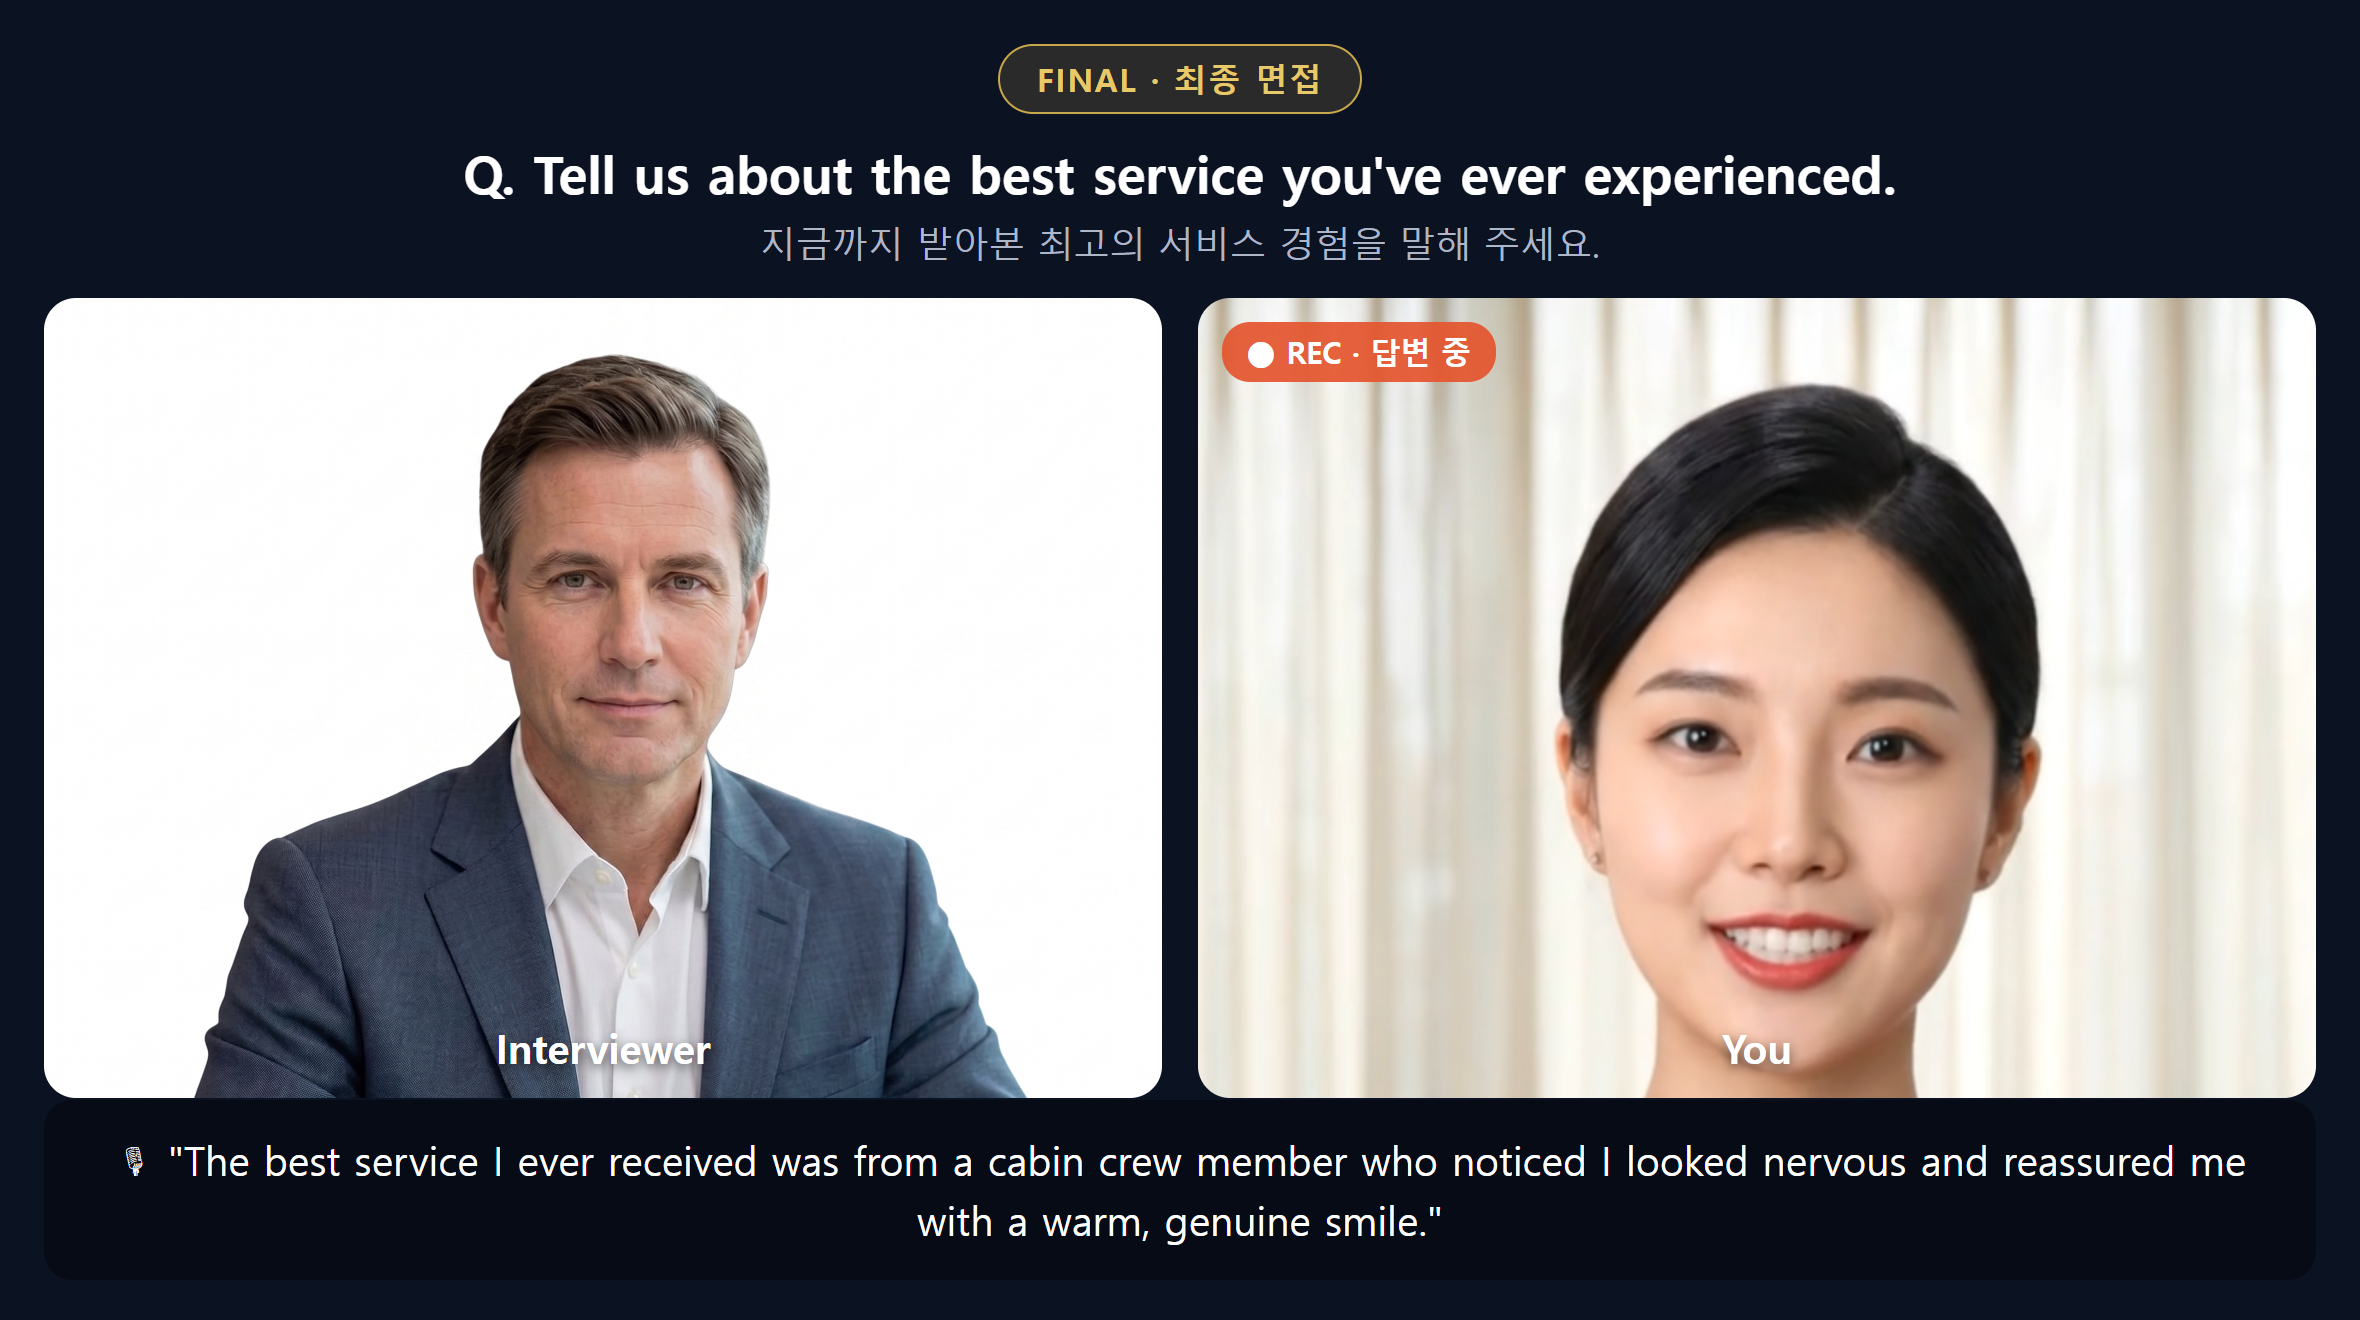
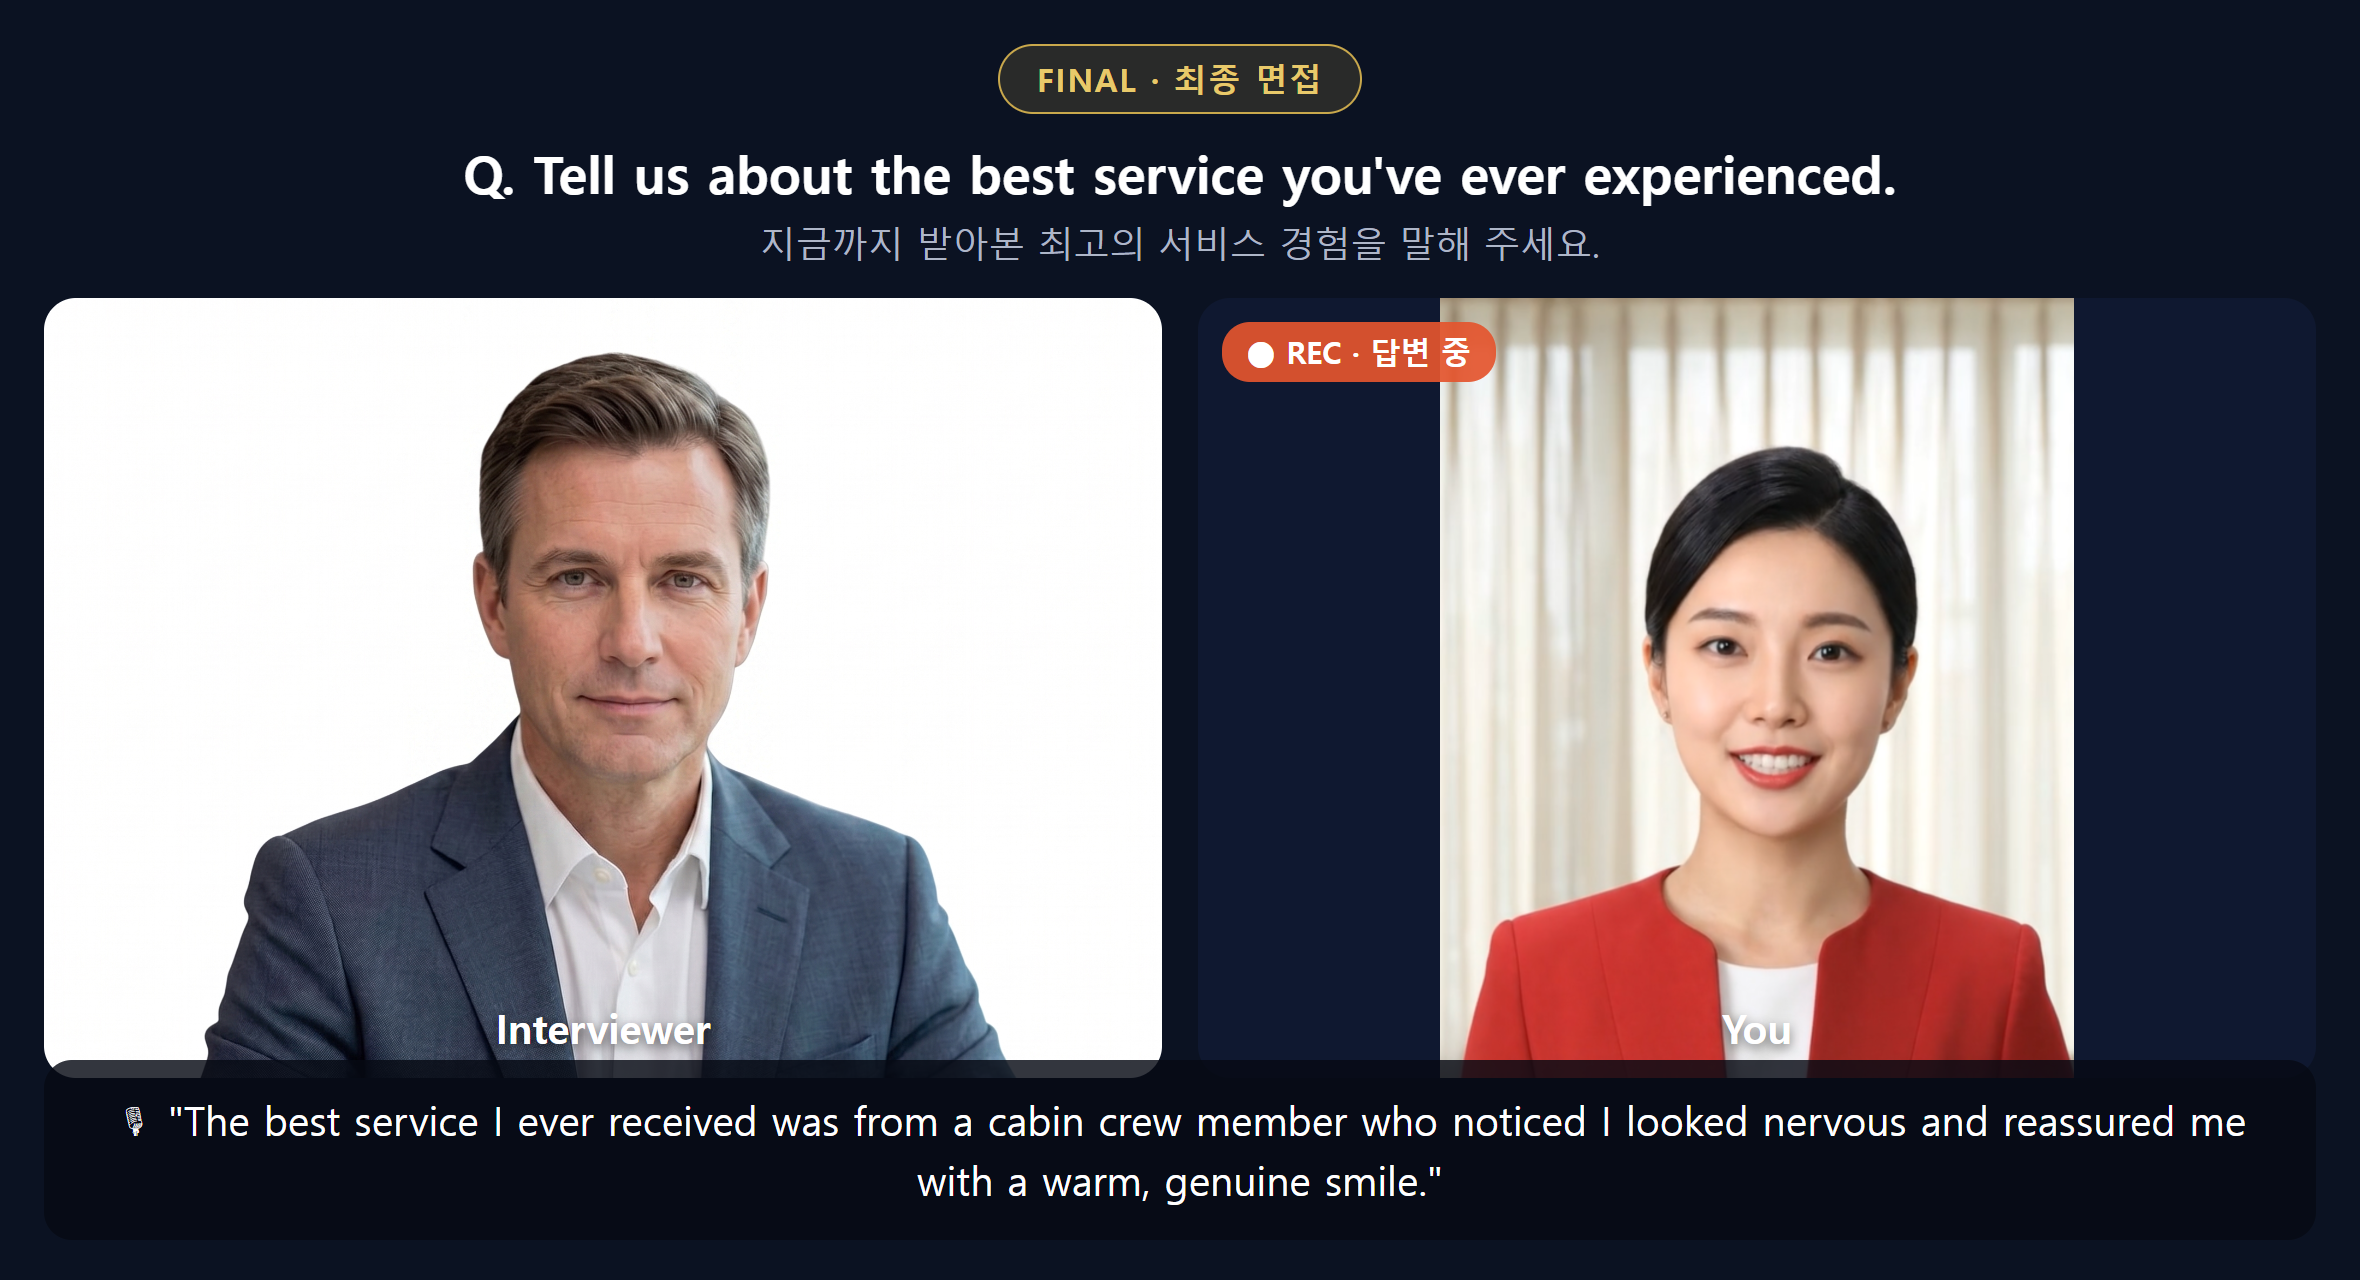
파이널 연습생 얼굴 더 축소(상반신 contain, 면접관과 크기 균형) v4

diff --git a/blog-drafts.html b/blog-drafts.html
@@ -533,7 +533,7 @@ hr{border:none;border-top:1px dashed var(--line);margin:30px 0;}
   <p>실전 직전 최종 점검과 종합 실력 분석 리포트, 그리고 1:1 코치 피드백까지. 원더풀크루에서는 그동안의 연습 데이터를 모아 미소·답변·태도를 항목별로 확인하고, 마지막은 코치 피드백으로 실전 준비를 완성합니다.</p>
   <figure><img src="images/Gemini_Generated_Image_9vrkb49vrkb49vrk.png" alt="파이널 종합 분석"></figure>
   <figure><img src="images/shot-final.png" alt="파이널 - 면접관·항공사·영어 엑센트 선택 화면"><figcaption>실제 화면 — 항공사·면접관·엑센트를 골라 실전처럼 마무리해요</figcaption></figure>
-  <figure><img src="images/shot-final-live.png?v=3" alt="파이널 실전 - 남성 면접관과 베스트 서비스 질문·실시간 자막"><figcaption>실제 화면 — 실전처럼 질문을 받고, 답변이 자막으로 실시간 기록돼요</figcaption></figure>
+  <figure><img src="images/shot-final-live.png?v=4" alt="파이널 실전 - 남성 면접관과 베스트 서비스 질문·실시간 자막"><figcaption>실제 화면 — 실전처럼 질문을 받고, 답변이 자막으로 실시간 기록돼요</figcaption></figure>
 
   <hr>
   <p>사진 한 장부터 마지막 1:1 면접까지 — 흩어져 있던 준비를 한 곳에서, 매일 조금씩. 원더풀크루에서는 그 전 과정을 실제 화면으로 직접 연습하며 합격까지 함께 걸어드릴게요.</p>

diff --git a/landing.html b/landing.html
@@ -299,7 +299,7 @@ footer b{color:#fff;}
   <div class="card">
     <div class="vis-shot"><img src="images/Gemini_Generated_Image_9vrkb49vrkb49vrk.png" alt="파이널 종합 분석"></div>
     <div class="vis-shot" style="margin-top:10px;"><img src="images/shot-final.png" alt="파이널 - 면접관·항공사·영어 악센트 선택 화면"></div>
-    <div class="vis-shot" style="margin-top:10px;"><img src="images/shot-final-live.png?v=3" alt="파이널 실전 - 남성 면접관과 베스트 서비스 질문·실시간 자막"></div>
+    <div class="vis-shot" style="margin-top:10px;"><img src="images/shot-final-live.png?v=4" alt="파이널 실전 - 남성 면접관과 베스트 서비스 질문·실시간 자막"></div>
     <h3>파이널 · 종합 분석</h3>
     <p>실전 직전 최종 점검과 종합 실력 분석 리포트, 그리고 1:1 코치 피드백까지. 그동안의 연습을 합격으로 완성하는 마지막 단계예요.</p><div class="card-note"><b>이 기능에서는</b>1. 실전 직전 종합 점검과 그동안의 연습 데이터를 모은 실력 분석 리포트를 받습니다.<br>2. 미소·답변·태도 등 항목별로 부족한 부분을 데이터로 확인해요.<br>3. 마지막은 1:1 코치 피드백으로 실전 준비를 완성합니다.</div>
   </div>
